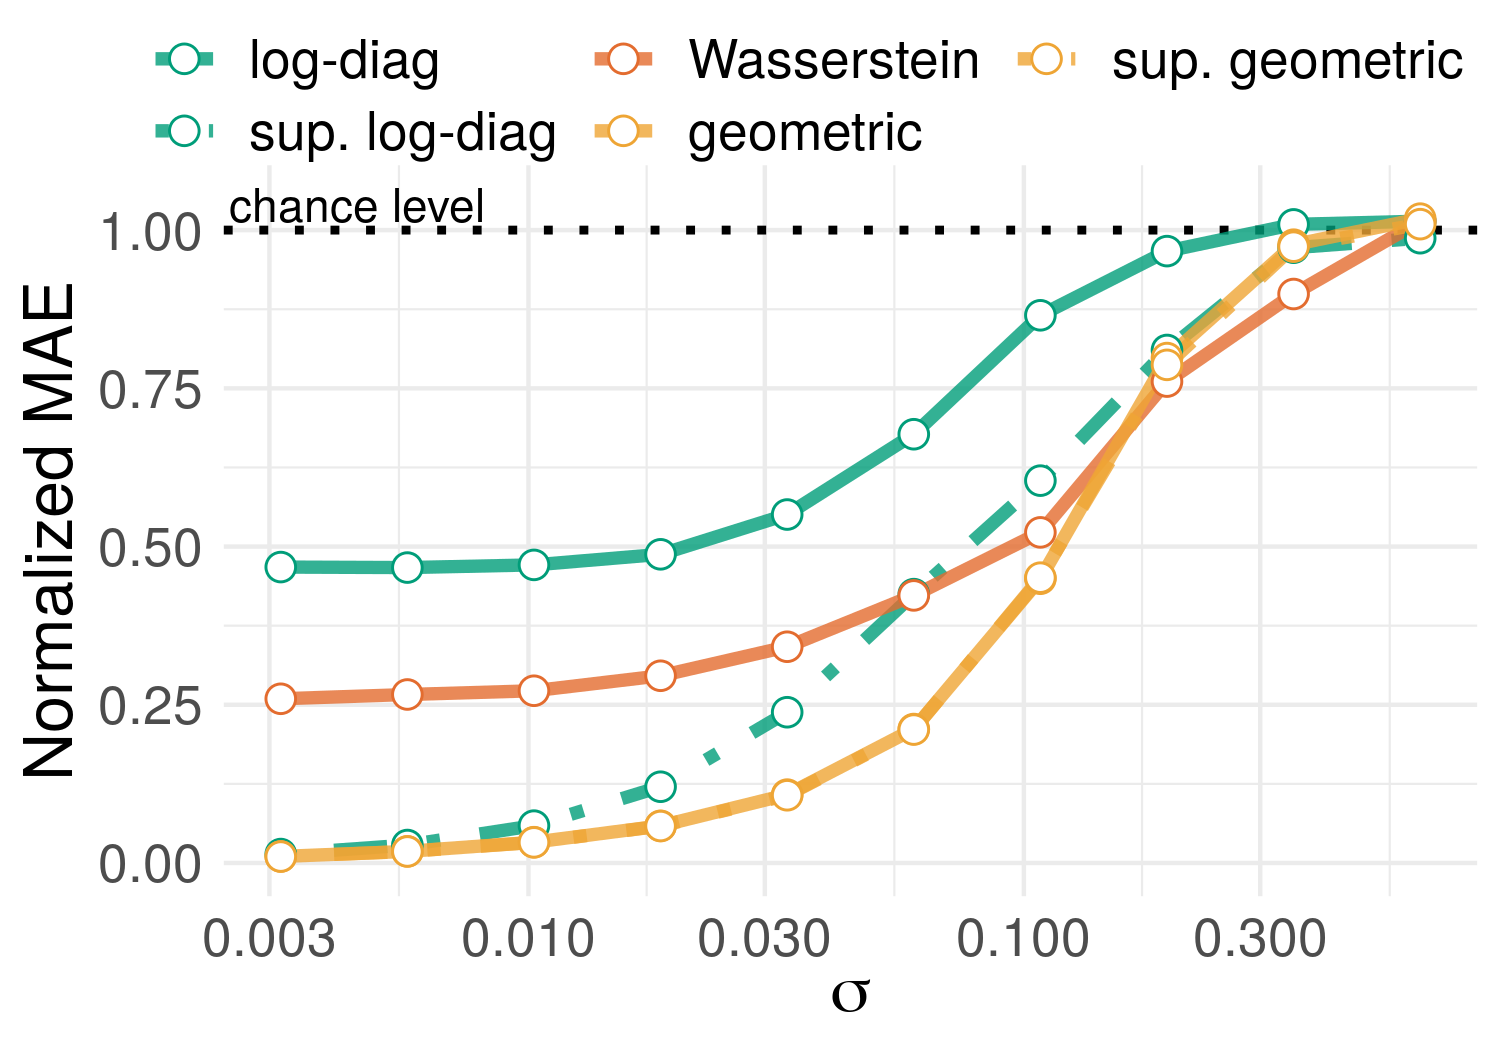
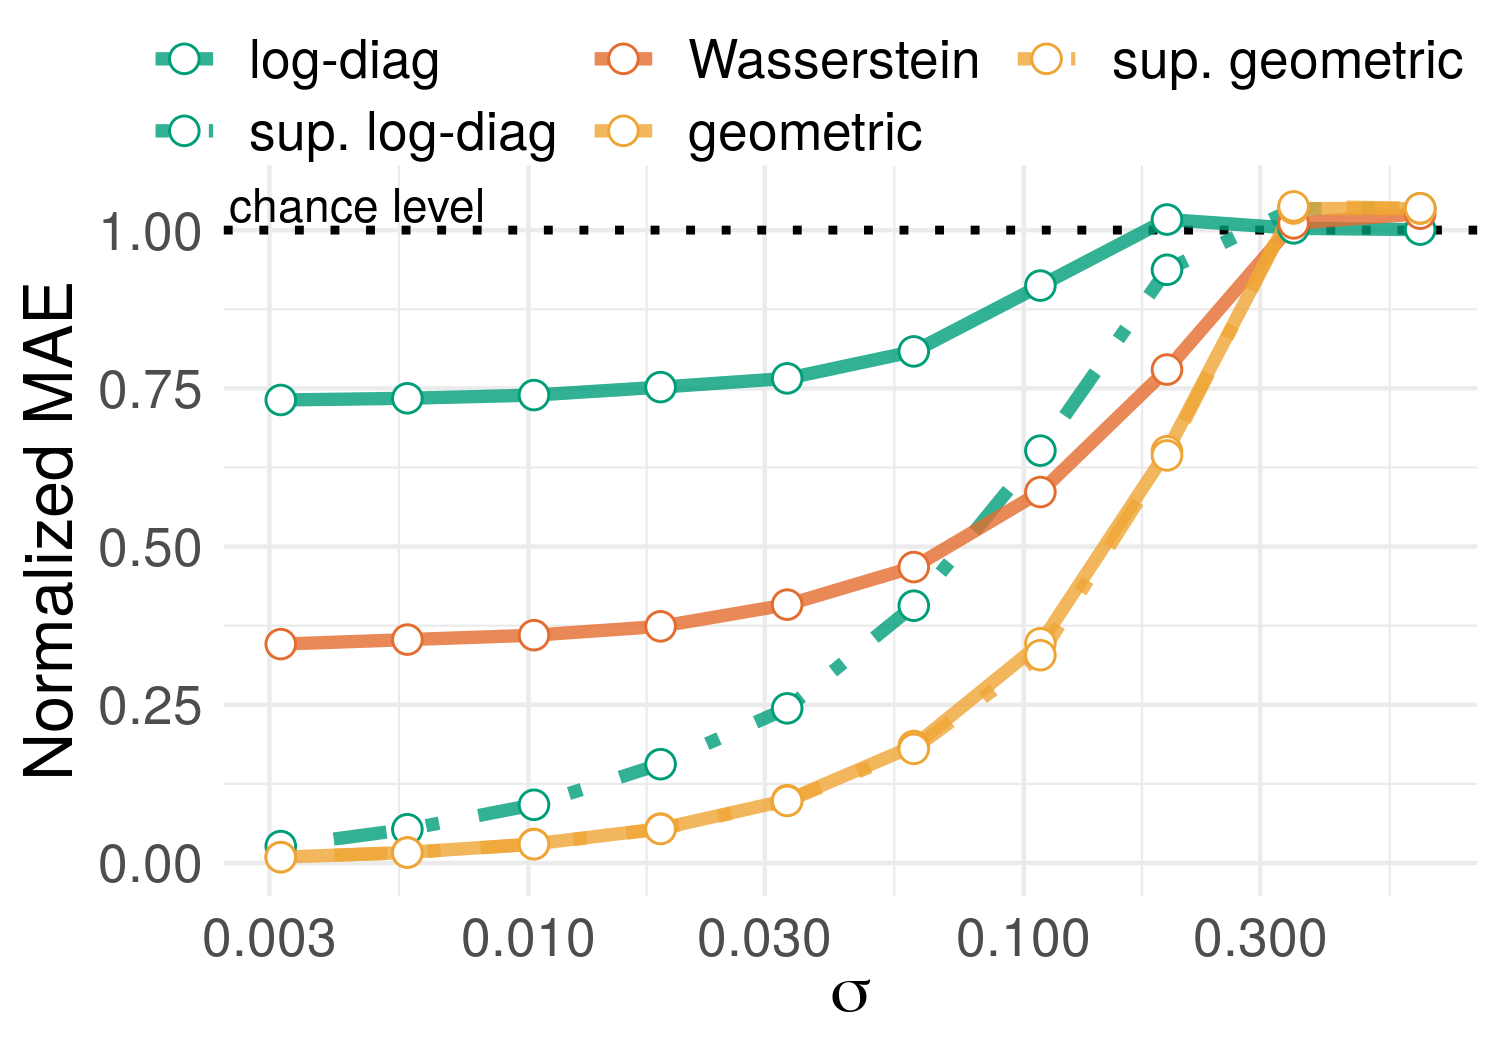
fixed bug on simuls

diff --git a/nips_simuls_compute_individual_A_loglinearpower.py b/nips_simuls_compute_individual_A_loglinearpower.py
@@ -20,13 +20,12 @@ print('Running individual A experiment...')
 n_matrices = 100  # Number of matrices
 n_channels = 5   # Number of channels
 n_sources = 2  # Number of sources
-distance_A_id = 0.5
+distance_A_id = 1.0  # Parameter 'mu': distance from A to Id
 f_powers = 'log'  # link function between the y and the source powers
 direction_A = None  # random direction_A
-rng = 5
+rng = 4
 sigma = 0.  # Noise level in y
-noises = np.logspace(-2.5, -.2, 10)  # noise in Ai
-
+noises_A = np.logspace(-2.5, -.2, 10)  # noise in Ai
 scoring = 'neg_mean_absolute_error'
 
 # define spatial filters
@@ -54,9 +53,9 @@ pipelines = {
     'supgeom': make_pipeline(spoc, geom, sc, ridge)
 }
 
-# Run experiments
-results = np.zeros((len(pipelines), len(noises)))
-for j, noise_A in enumerate(noises):
+# Run simulation
+results = np.zeros((len(pipelines), len(noises_A)))
+for j, noise_A in enumerate(noises_A):
     X, y = generate_covariances(n_matrices, n_channels, n_sources,
                                 sigma=sigma, distance_A_id=distance_A_id,
                                 f_p=f_powers, direction_A=direction_A,
@@ -77,25 +76,22 @@ np.savetxt(op.join(cfg.path_outputs,
            np.array(list(pipelines)), fmt='%s')
 np.savetxt(op.join(cfg.path_outputs,
            'simuls_nips/individual_spatial/noises_A.csv'),
-           noises)
+           noises_A)
 
 # draft plot
 f, ax = plt.subplots(figsize=(4, 3))
 results /= results[0]
 for i, name in enumerate(list(pipelines)):
-    if name != 'Chance level':
-        ls = None
-    else:
-        ls = '--'
-    ax.plot(noises, results[i],
+    ax.plot(noises_A, results[i],
             label=name,
             linewidth=3,
             linestyle='--' if name == 'dummy' else None)
 ax.set_xlabel('individual noise')
+ax.set_xscale('log')
 plt.grid()
 ax.set_ylabel('Normalized M.A.E.')
-ax.hlines(0, noises[0], noises[-1], label=r'Perfect',
+ax.hlines(0, noises_A[0], noises_A[-1], label=r'Perfect',
           color='k', linestyle='--', linewidth=3)
 ax.legend(loc='lower right')
-ax.set_xscale('log')
+f.tight_layout
 plt.show()

diff --git a/nips_simuls_compute_snr_loglinearpower.py b/nips_simuls_compute_snr_loglinearpower.py
@@ -20,20 +20,18 @@ print('Running SNR experiment...')
 n_matrices = 100  # Number of matrices
 n_channels = 5   # Number of channels
 n_sources = 2  # Number of sources
-distance_A_id = .3  # Parameter 'mu': distance from A to Id
+distance_A_id = 1.0  # Parameter 'mu': distance from A to Id
 f_powers = 'log'  # link function between the y and the source powers
 direction_A = None  # random direction_A
 rng = 4
-sigmas = np.logspace(-2, 1, 10)  # noise level in y
+sigmas = np.logspace(-2, 1.4, 10)  # noise level in y
+noise_A = 0.
 scoring = 'neg_mean_absolute_error'
 
 # define spatial filters
 identity = ProjIdentitySpace()
-#  spoc = ProjSPoCSpace(n_compo=n_channels, scale='auto', reg=0, shrink=0)
 
 # define featuring
-#  upper = NaiveVec(method='upper')
-#  diag = Diag()
 logdiag = LogDiag()
 geom = Riemann(n_fb=1, metric='riemann')
 wass = RiemannSnp(n_fb=1, rank=n_channels)
@@ -43,7 +41,6 @@ sc = StandardScaler()
 # define algo
 dummy = DummyRegressor()
 ridge = RidgeCV(alphas=np.logspace(-7, 3, 100), scoring=scoring)
-#  ridge = RidgeCV(alphas=np.logspace(-3, 5, 100), scoring=scoring)
 
 # define models
 pipelines = {
@@ -59,7 +56,7 @@ for j, sigma in enumerate(sigmas):
     X, y = generate_covariances(n_matrices, n_channels, n_sources,
                                 sigma=sigma, distance_A_id=distance_A_id,
                                 f_p=f_powers, direction_A=direction_A,
-                                rng=rng)
+                                noise_A=noise_A, rng=rng)
     X = X[:, None, :, :]
     for i, (name, pipeline) in enumerate(pipelines.items()):
         print('sigma = {}, {} method'.format(sigma, name))

diff --git a/nips_simuls_compute_distance_loglinearpower.py b/nips_simuls_compute_distance_loglinearpower.py
@@ -20,13 +20,12 @@ print('Running distance experiment...')
 n_matrices = 100  # Number of matrices
 n_channels = 5   # Number of channels
 n_sources = 2  # Number of sources
-sigma = 0  # .31  Noise level in y
+distances = np.linspace(0.001, 3, 10)  # Parameter 'mu': distance from A to Id
 f_powers = 'log'  # link function between the y and the source powers
-# Direction for the change in A
-direction_A = np.random.RandomState(4).randn(n_channels, n_channels)
-direction_A /= np.linalg.norm(direction_A)
-rng = 5
-distances = np.linspace(0.001, 3, 10)
+direction_A = None  # random direction_1
+rng = 4
+sigma = 0.  # Noise level in y
+noise_A = 0.
 scoring = 'neg_mean_absolute_error'
 
 # define spatial filters
@@ -51,13 +50,13 @@ pipelines = {
     'wass': make_pipeline(identity, wass, sc, ridge)
 }
 
-# Run experiments
+# Run simulation
 results = np.zeros((len(pipelines), len(distances)))
 for j, distance_A_id in enumerate(distances):
     X, y = generate_covariances(n_matrices, n_channels, n_sources,
                                 sigma=sigma, distance_A_id=distance_A_id,
                                 f_p=f_powers, direction_A=direction_A,
-                                rng=rng)
+                                noise_A=noise_A, rng=rng)
     X = X[:, None, :, :]
     for i, (name, pipeline) in enumerate(pipelines.items()):
         print('distance = {}, {} method'.format(distance_A_id, name))

diff --git a/library/simuls.py b/library/simuls.py
@@ -7,18 +7,18 @@ from sklearn.utils import check_random_state
 
 def generate_covariances(n_matrices, n_channels, n_sources, rank=None,
                          distance_A_id=0., direction_A=None,
-                         distance_projs=0., sigma=0,
+                         distance_projs=0., sigma=0.,
                          noise_A=0., f_p='log', rng=0):
     rng = check_random_state(rng)
     project = rank is not None
     # Generate A close from id
     if direction_A is None:
         direction_A = rng.randn(n_channels, n_channels)
+        direction_A /= np.linalg.norm(direction_A)
     A = expm(distance_A_id * direction_A)
     # Add individual noise
-    if noise_A != 0.:
-        A_list = [A + noise_A * rng.randn(n_channels, n_channels)
-                  for _ in range(n_matrices)]
+    A_list = [A + noise_A * rng.randn(n_channels, n_channels)
+              for _ in range(n_matrices)]
     # Generate powers
     powers = rng.rand(n_matrices, n_sources)
     # Generate source covariances
